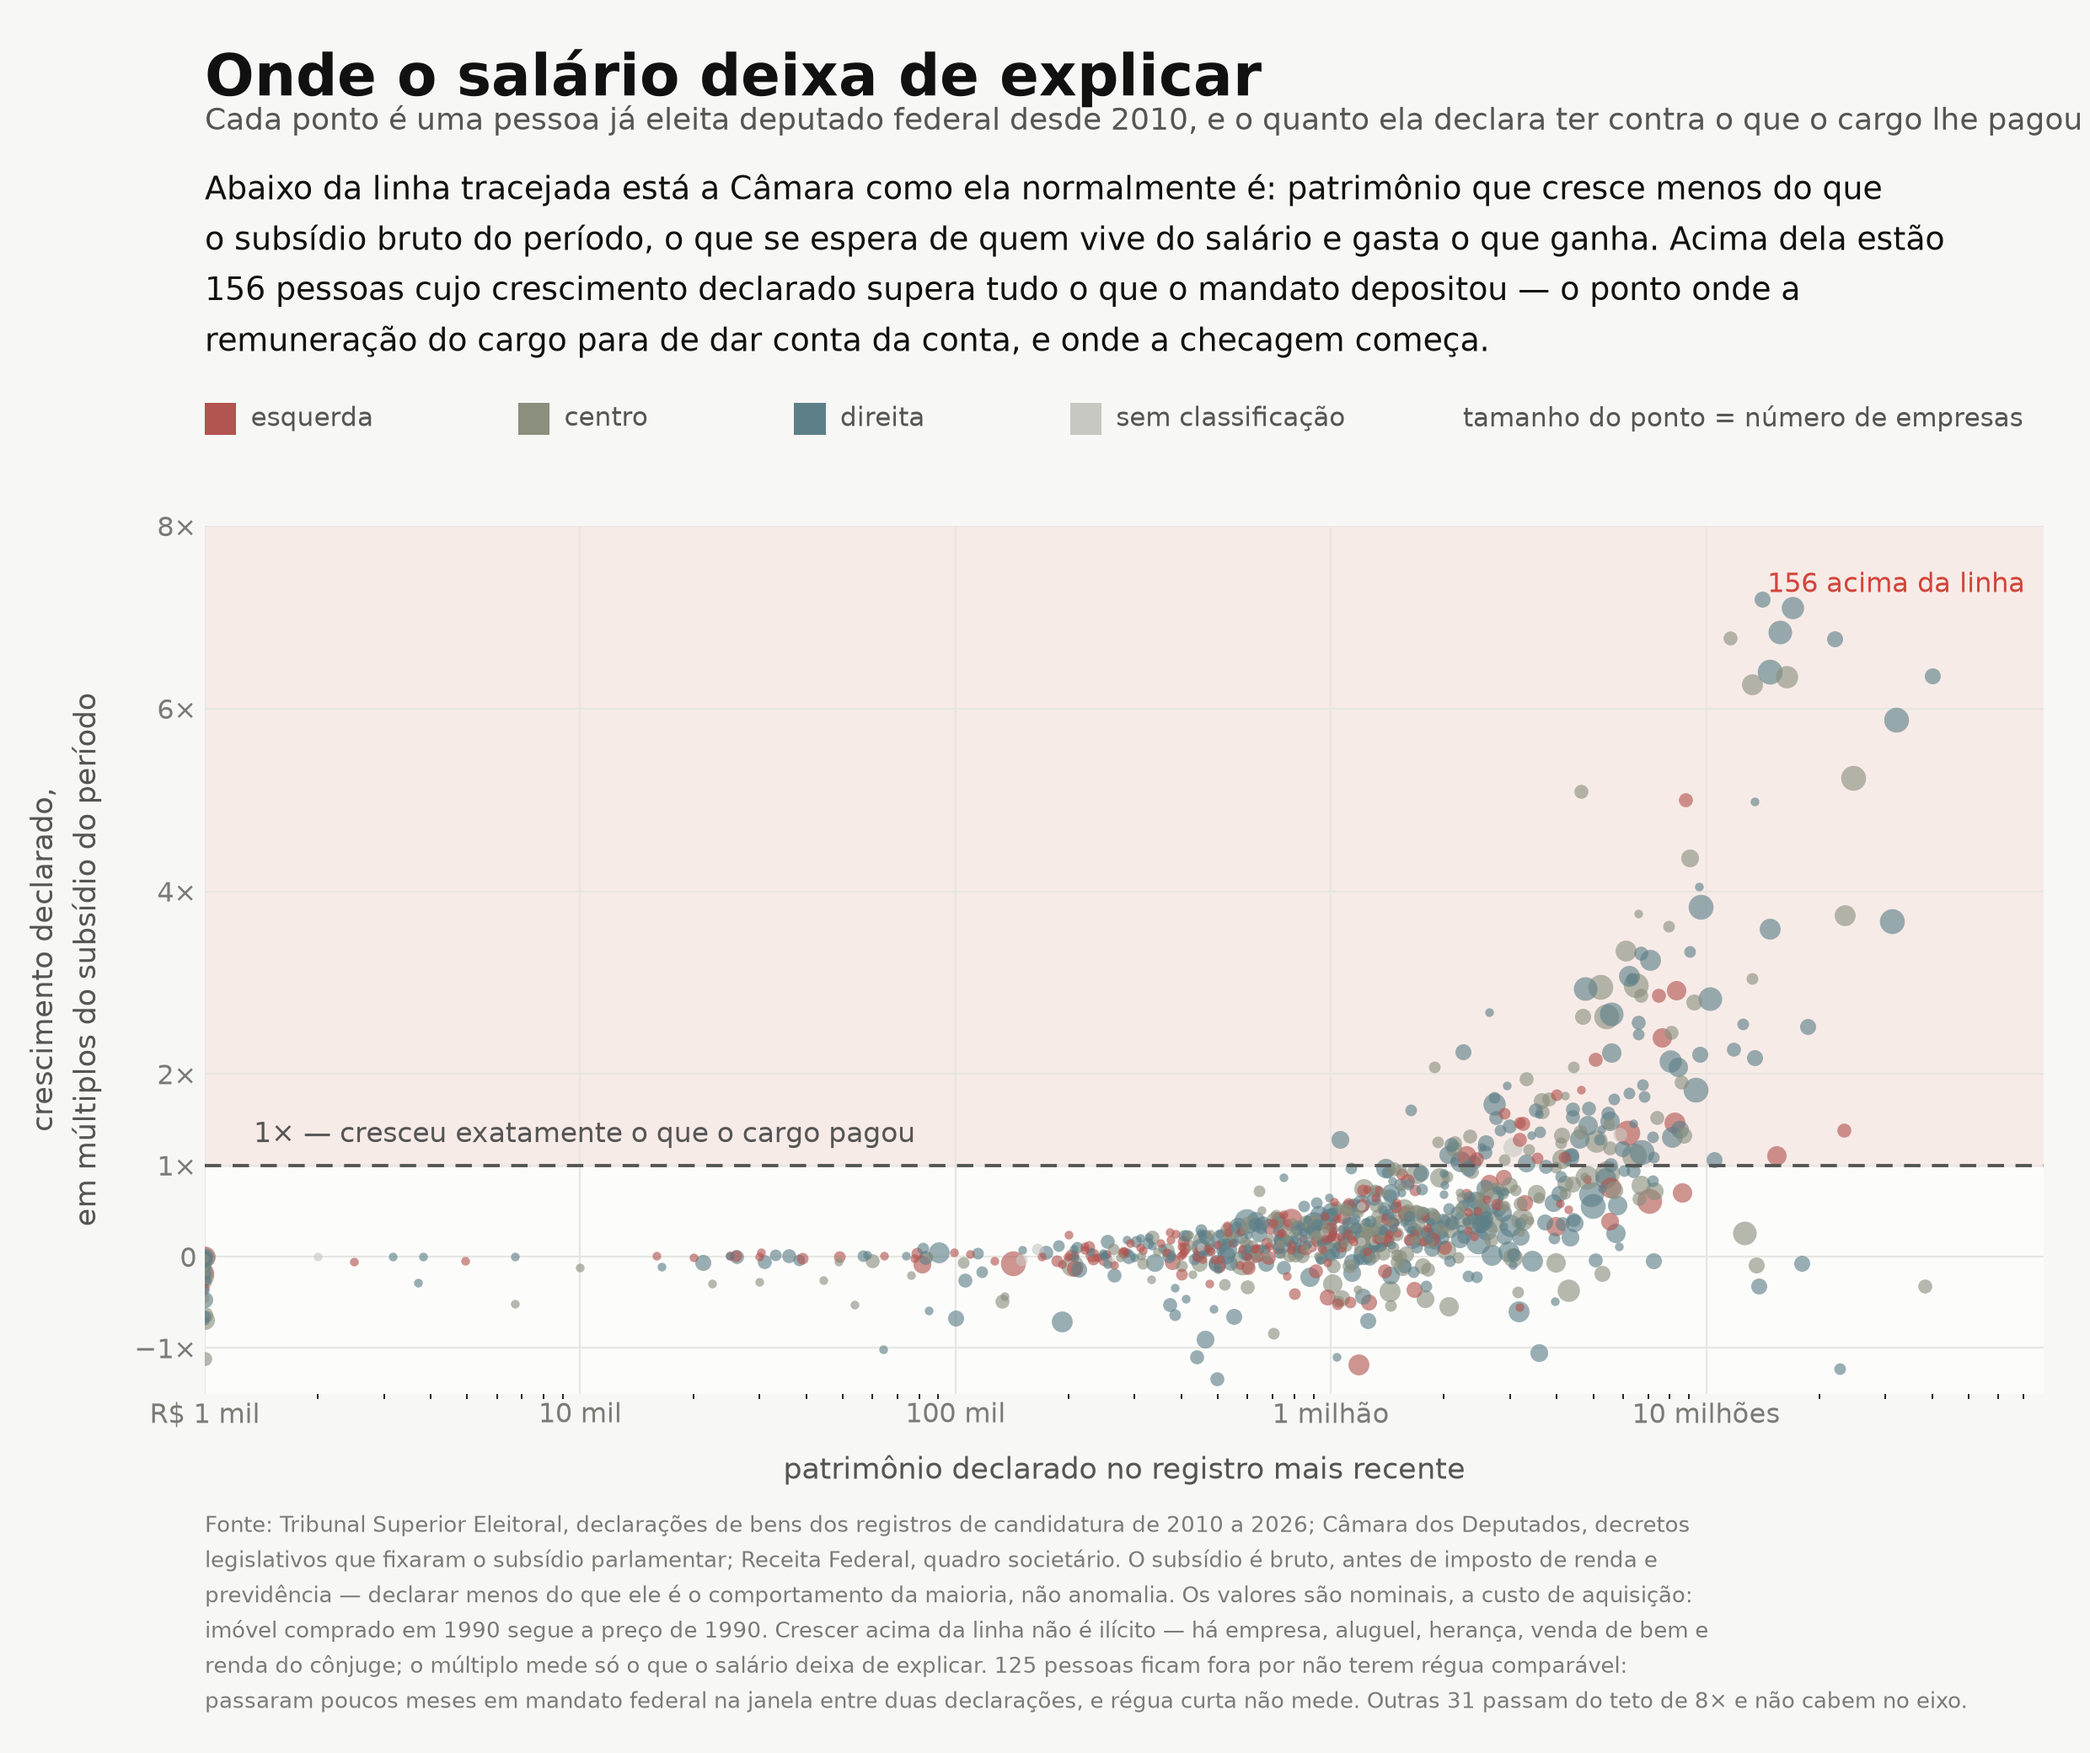
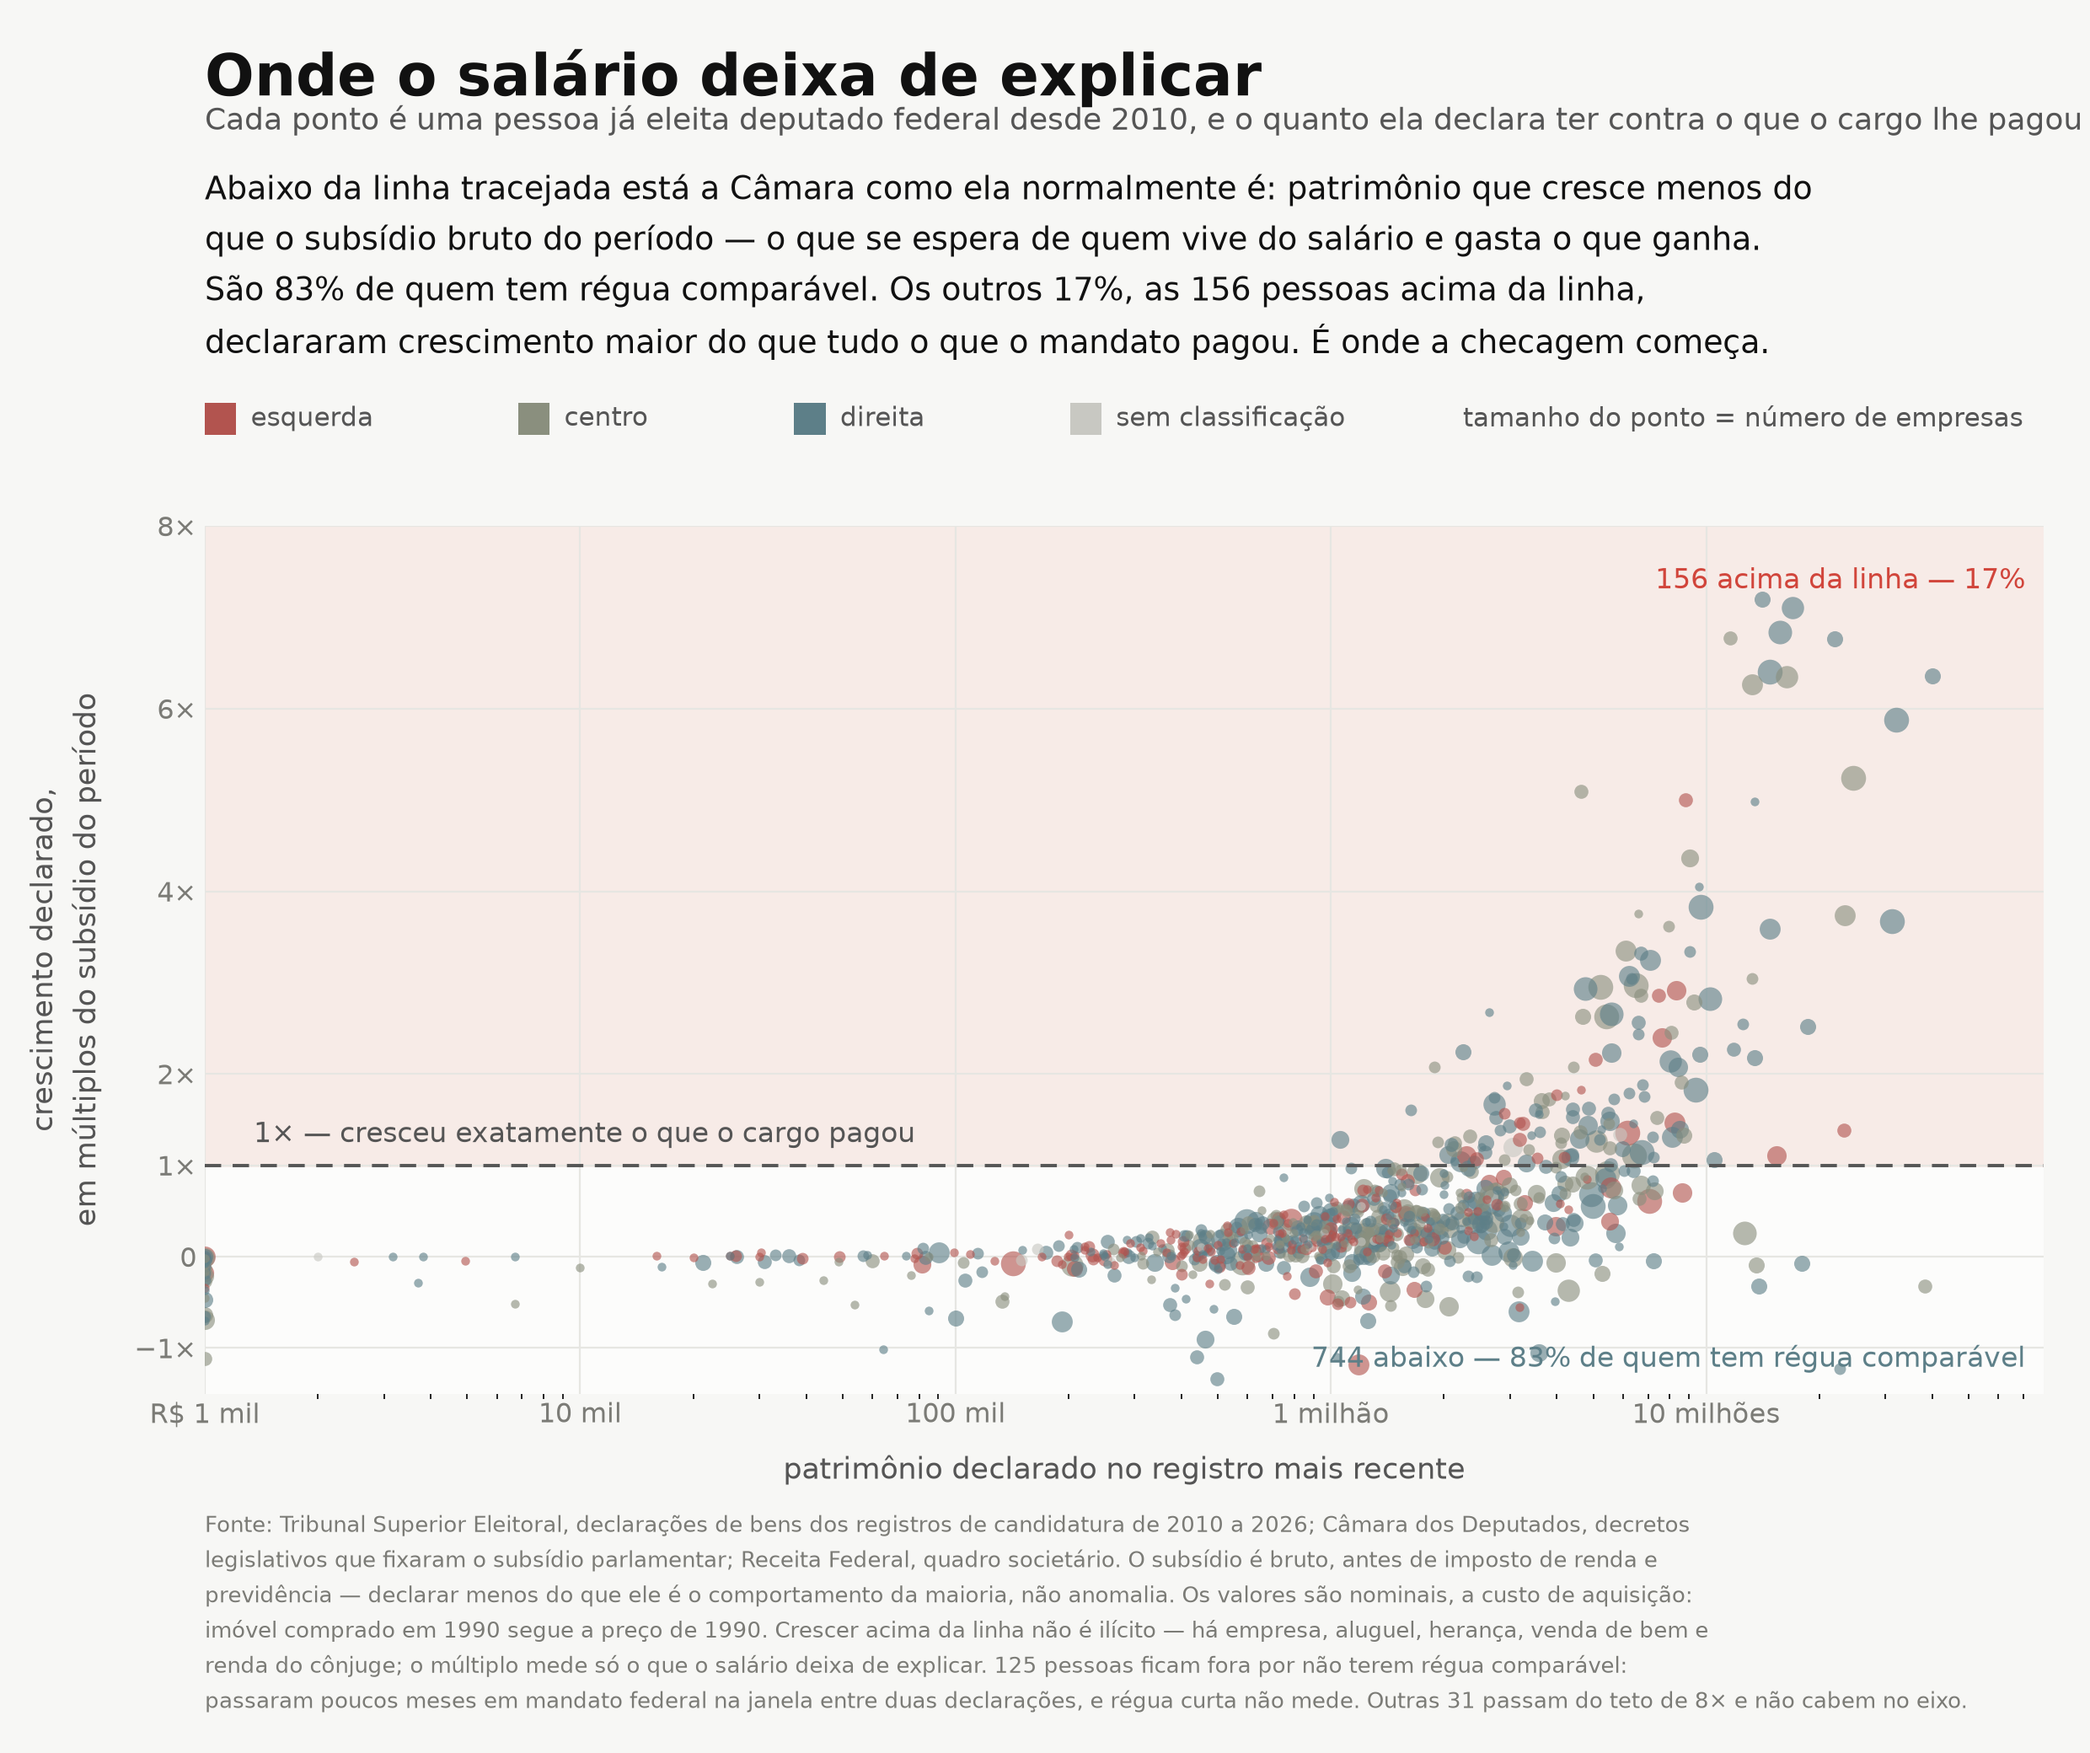
feat: percentuais dos dois lados da linha e composição em barras horizontais
Na figura, os dois lados passam a trazer o percentual além da contagem:
744 abaixo (83%) e 156 acima (17%) dos 900 com régua comparável. O texto
da análise abre com esse número, que é a leitura principal.

No painel, a composição do patrimônio por tipo de bem deixa de ser barra
vertical em escala absoluta e vira barra horizontal normalizada a 100%,
uma por declaração, com o percentual escrito dentro de cada faixa larga o
bastante e o valor absoluto ao lado. Na forma anterior, declaração pequena
virava fio de um pixel e a pergunta "de que é feito este patrimônio" ficava
sem resposta.

diff --git a/scripts/plot_panorama_bens_candidatos.py b/scripts/plot_panorama_bens_candidatos.py
@@ -64,7 +64,11 @@ def main():
     origem = sys.argv[1] if len(sys.argv) > 1 else "/tmp/patrimonio_dados.json"
     meta, pontos, sem_regua = carrega(origem)
     acima = [p for p in pontos if p["mult"] > 1]
-    print(f"{len(pontos)} com régua · {sem_regua} sem · {len(acima)} acima de 1×")
+    abaixo = [p for p in pontos if p["mult"] <= 1]
+    pct_ab = 100 * len(abaixo) / len(pontos)
+    pct_ac = 100 * len(acima) / len(pontos)
+    print(f"{len(pontos)} com régua · {sem_regua} sem · "
+          f"{len(acima)} acima ({pct_ac:.0f}%) · {len(abaixo)} abaixo ({pct_ab:.0f}%)")
 
     # mesma moldura fixa do painel: ela não muda com o filtro, e é isso que
     # deixa a linha de 1× sempre na mesma altura
@@ -102,9 +106,12 @@ def main():
     ax.axhline(1, color=TXT2, lw=1.4, ls=(0, (5, 3.5)), zorder=5)
     ax.text(1.35e3, 1.18, "1× — cresceu exatamente o que o cargo pagou",
             fontsize=12, color=TXT2, va="bottom", ha="left", zorder=6)
-    ax.text(10 ** 7.85, 7.5,
-            f"{len(acima)} acima da linha", fontsize=11.5, color="#d1453b",
-            va="top", ha="right", zorder=6)
+    ax.text(10 ** 7.85, 7.55,
+            f"{len(acima)} acima da linha — {pct_ac:.0f}%", fontsize=12,
+            color="#d1453b", va="top", ha="right", zorder=6)
+    ax.text(10 ** 7.85, -1.28,
+            f"{len(abaixo)} abaixo — {pct_ab:.0f}% de quem tem régua comparável",
+            fontsize=12, color="#5d7f88", va="bottom", ha="right", zorder=6)
 
     ax.set_xlabel("patrimônio declarado no registro mais recente",
                   fontsize=12.5, color=TXT2, labelpad=11)
@@ -119,12 +126,11 @@ def main():
              ha="left", va="top", fontsize=13, color=TXT2)
     fig.text(0.098, 0.906,
              f"Abaixo da linha tracejada está a Câmara como ela normalmente é: "
-             f"patrimônio que cresce menos do que\no subsídio bruto do período, "
-             f"o que se espera de quem vive do salário e gasta o que ganha. "
-             f"Acima dela estão\n{len(acima)} pessoas cujo crescimento declarado "
-             f"supera tudo o que o mandato depositou — o ponto onde a\n"
-             f"remuneração do cargo para de dar conta da conta, e onde a "
-             f"checagem começa.",
+             f"patrimônio que cresce menos do\nque o subsídio bruto do período — o "
+             f"que se espera de quem vive do salário e gasta o que ganha.\n"
+             f"São {pct_ab:.0f}% de quem tem régua comparável. Os outros {pct_ac:.0f}%, "
+             f"as {len(acima)} pessoas acima da linha,\ndeclararam crescimento maior "
+             f"do que tudo o que o mandato pagou. É onde a checagem começa.",
              ha="left", va="top", fontsize=13.5, color=TXT, linespacing=1.6)
 
     for i, (x, esp) in enumerate(((0.098, 0), (0.248, 1), (0.380, 2), (0.512, -1))):

diff --git a/pages/analises/results/bens-dos-candidatos.md b/pages/analises/results/bens-dos-candidatos.md
@@ -16,7 +16,9 @@ eleição, filtrar por partido, estado e espectro, e ampliar qualquer região do
 
 ## O que aparece
 
-**A regra é o patrimônio parado.** A mediana do crescimento declarado é **0,24 vez** o subsídio
+**A regra é o patrimônio parado.** Dos 900 parlamentares com régua comparável, **744 — 83%**
+ficam abaixo da linha: o patrimônio deles cresceu menos do que o salário bruto do período. A
+mediana do crescimento declarado é **0,24 vez** o subsídio
 do período: o parlamentar típico termina o intervalo entre duas declarações com um quarto do que
 o cargo lhe pagou convertido em bens. Um quarto deles declara crescimento praticamente nulo, e
 metade fica abaixo de 0,7.
